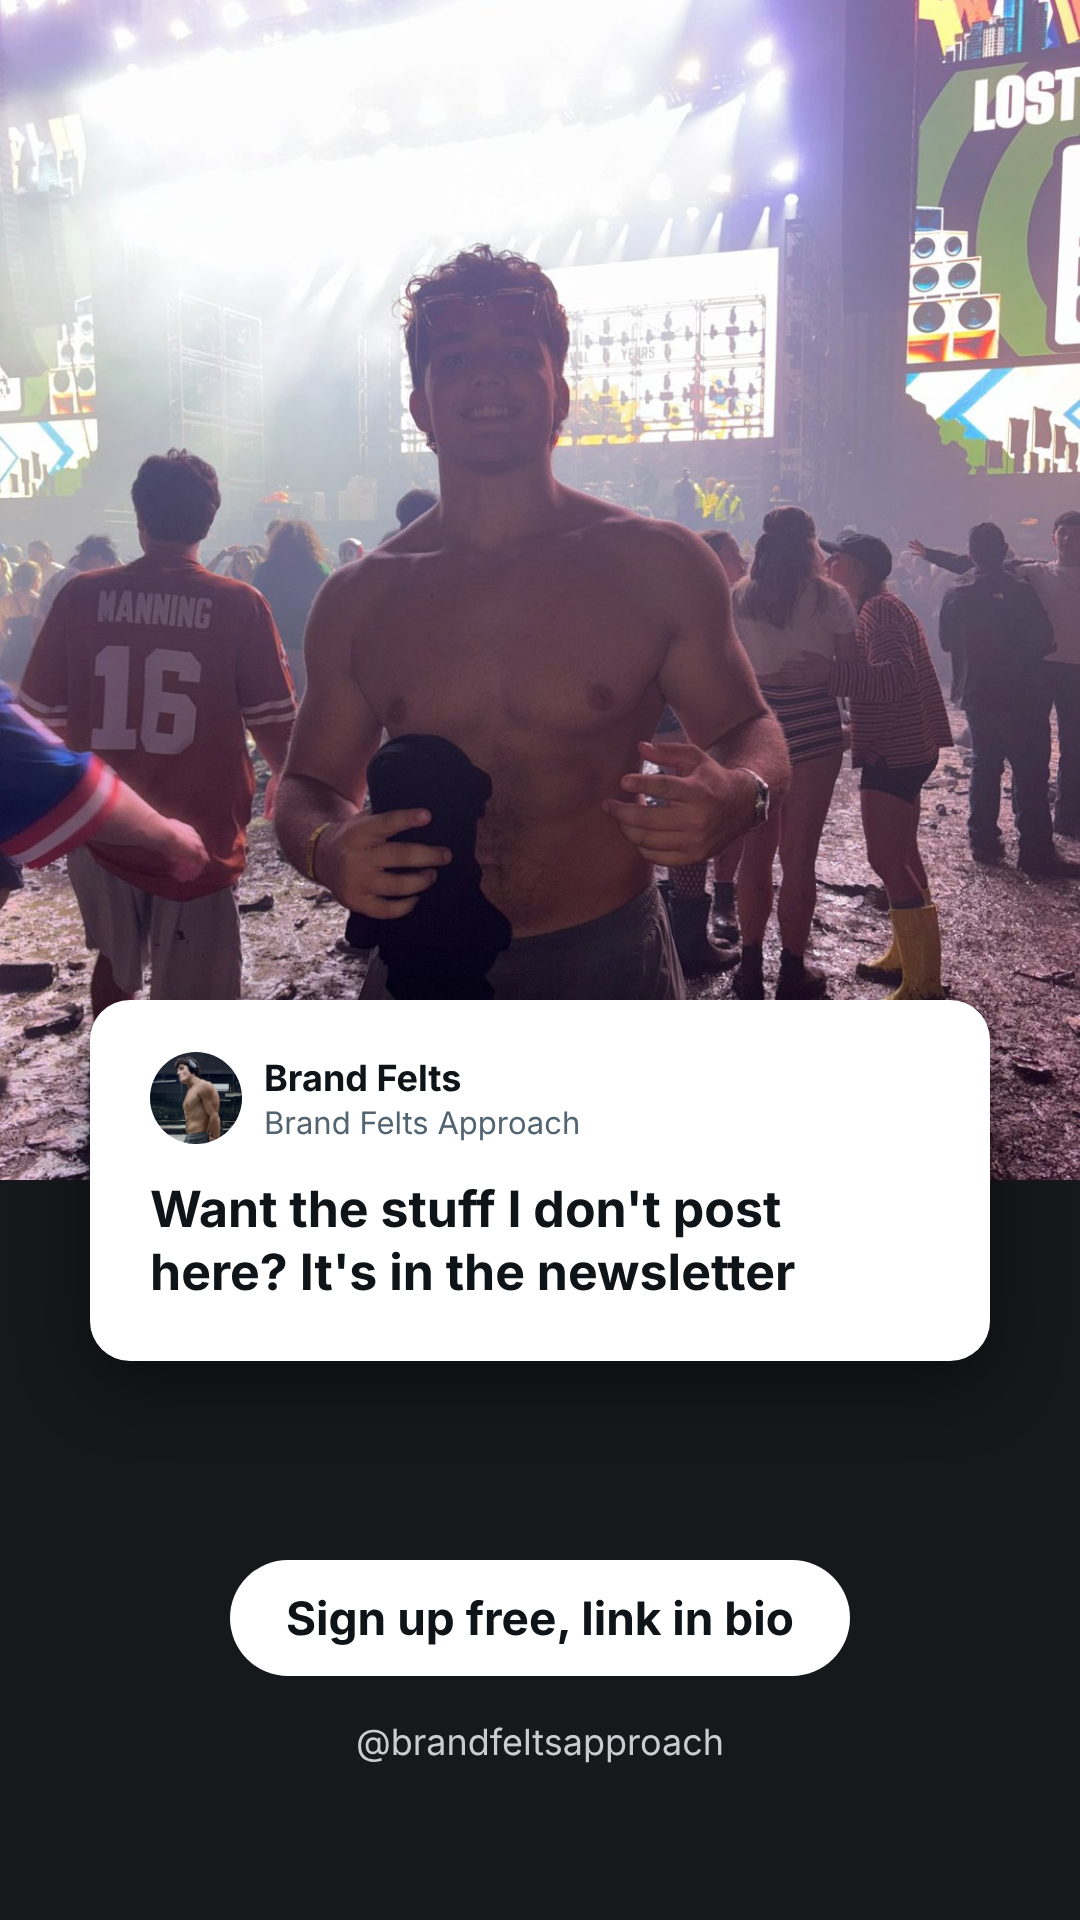
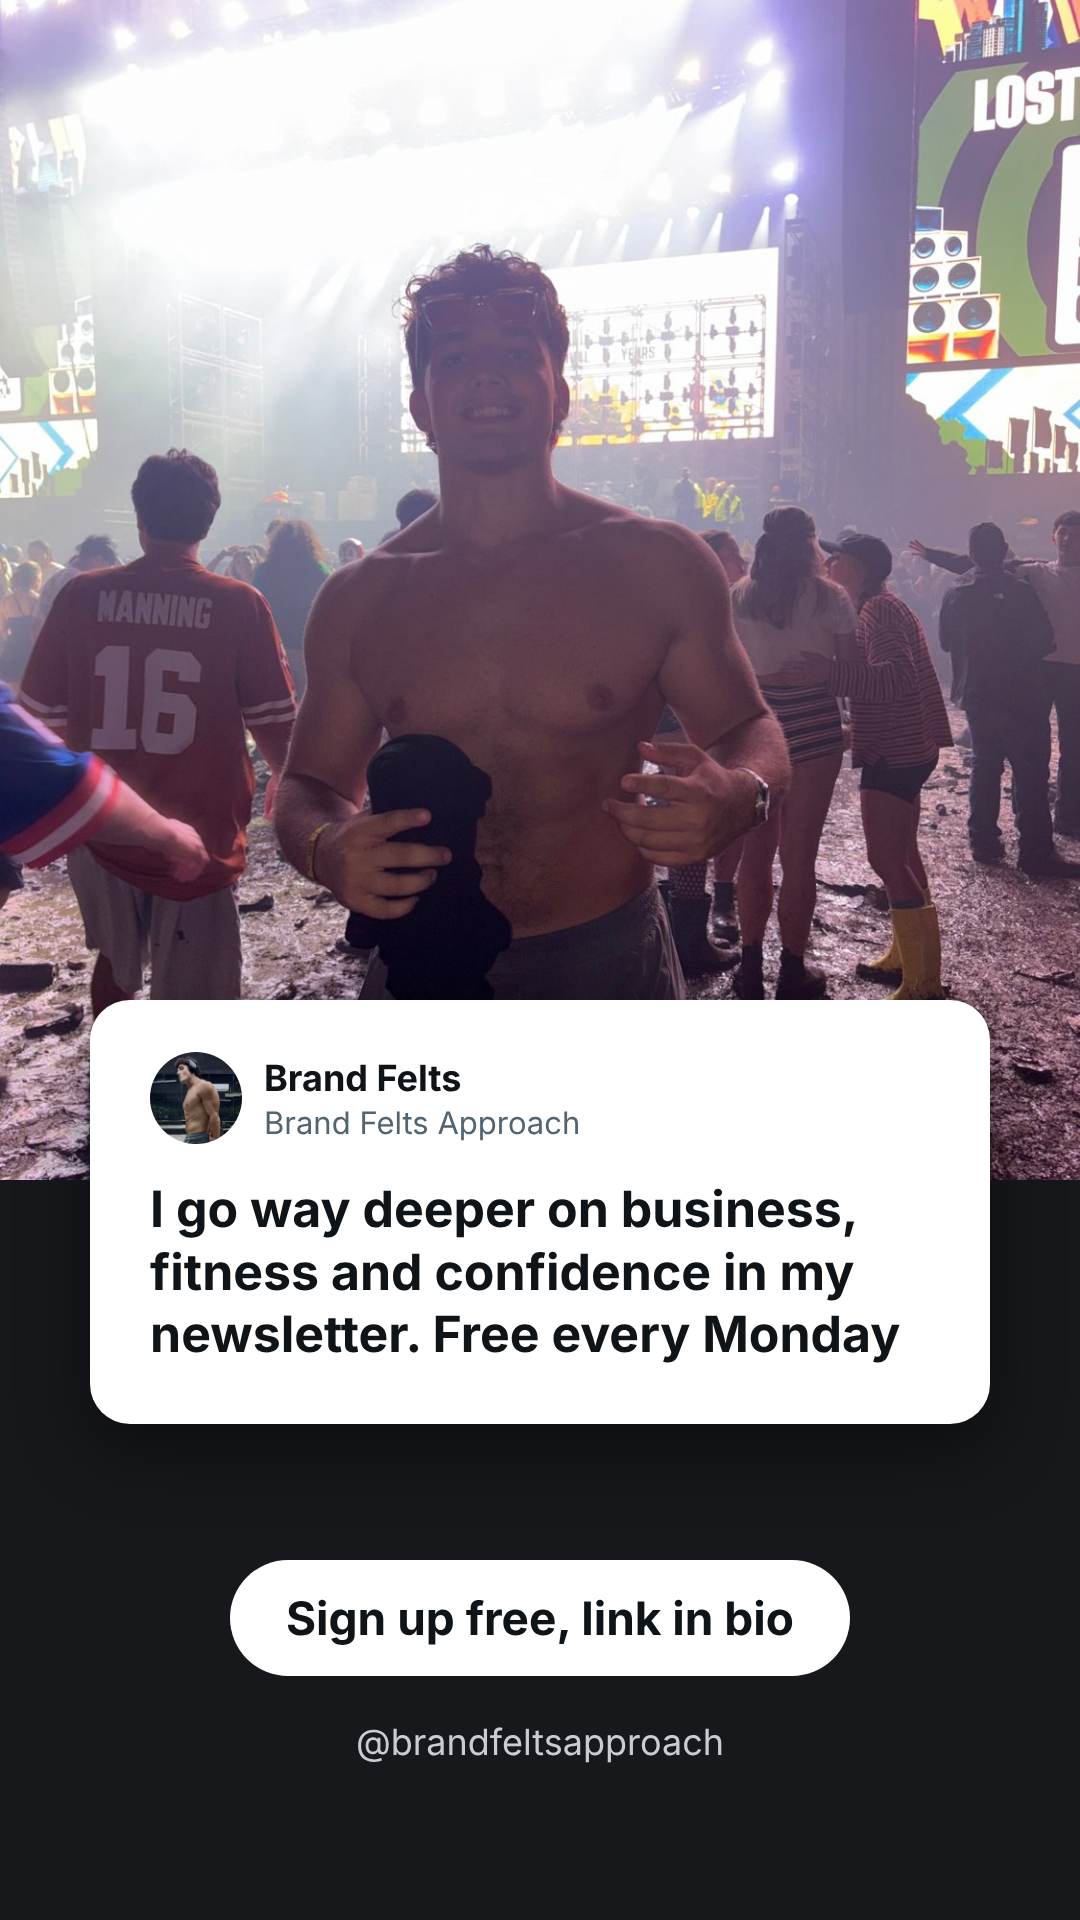
Story 5: new line

Changed region(s): [[0.0611, 0.5938, 0.9167, 0.75]]

diff --git a/tools/make_stories.py b/tools/make_stories.py
@@ -13,7 +13,7 @@ STORIES = [
     ("Toolkits & Cool Shit drops Monday at noon. It's free", "yard.jpg", "32% 40%"),
     ("If you liked today's post, the newsletter goes deeper. Free every Monday", "gymfull.jpg", "50% 42%"),
     ("Fitness, confidence, business, watches, travel. One email a week. Free", "dinner.jpg", "50% 40%"),
-    ("Want the stuff I don't post here? It's in the newsletter", "festival.jpg", "50% 30%"),
+    ("I go way deeper on business, fitness and confidence in my newsletter. Free every Monday", "festival.jpg", "50% 30%"),
     ("Sign up for my newsletter. It's free and it's not boring", "mirror.jpg", "50% 30%"),
     ("Stop scrolling and read something useful. Free newsletter every Monday", "gymfull.jpg", "50% 30%"),
 ]
